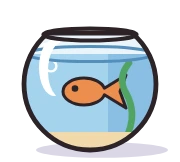
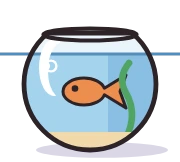
Wonder Shelf: flat clouds, Doraemon-anime blue, lighter sky, no top-cell shade band, flat rounded tags, rocket and goldfish bowl sway on page turns

Changed region(s): [[0.25, 0.2778, 1.0, 0.4321], [0.0, 0.2778, 0.25, 0.3704]]

diff --git a/index.html b/index.html
@@ -1049,9 +1049,9 @@ body.portrait:not(.compact) .topbar .lbl{display:none}
 :root[data-theme=sumi] .wall.zoomed .shelf.z::after{background:linear-gradient(180deg,rgba(0,0,0,.10) 0,rgba(0,0,0,.20) 50%,rgba(0,0,0,.30));mix-blend-mode:normal}
 .prop.sprop{position:absolute;bottom:-3px;pointer-events:none}.prop.sprop img{display:block}
 /* ================= Wonder Shelf (TOON_THEME_SPEC): 2D cel animation - rounded type, navy-sky glass, sunflower accent, ink key lines ================= */
-:root[data-theme=toon]{--surround:#3763A0;--text:#FFFFFF;--muted:#DEE7F6;--faint:#B6C6E2;--gilt:#F7D259;--gilt-deep:#D79C44;--line:rgba(255,210,63,.38);--glass:rgba(32,60,118,.84);--glass-hi:rgba(48,84,152,.92);--ink:#2E2328;--ink-muted:#685F63;--ink-red:#D25643;--ink-line:rgba(46,35,40,.28);
+:root[data-theme=toon]{--surround:#176E97;--text:#FFFFFF;--muted:#DEE7F6;--faint:#B6C6E2;--gilt:#F7D259;--gilt-deep:#D79C44;--line:rgba(255,210,63,.38);--glass:rgba(32,60,118,.84);--glass-hi:rgba(48,84,152,.92);--ink:#2E2328;--ink-muted:#685F63;--ink-red:#D25643;--ink-line:rgba(46,35,40,.28);
   --f-ui:"Hiragino Maru Gothic ProN","Arial Rounded MT Bold","LibZH","PingFang TC",sans-serif;--f-book:"Hiragino Maru Gothic ProN","LibZH","PingFang TC",sans-serif;--f-display:"Arial Rounded MT Bold","Hiragino Maru Gothic ProN","LibZH","PingFang TC",sans-serif;--f-zhserif:"Hiragino Maru Gothic ProN","PingFang TC",sans-serif}
-:root[data-theme=toon] .stage{background:#3763A0}
+:root[data-theme=toon] .stage{background:#176E97}
 :root[data-theme=toon] .topbar{background:none}
 :root[data-theme=toon] .bottombar{background:linear-gradient(0deg,rgba(47,100,174,.55),rgba(47,100,174,0))}
 :root[data-theme=toon] .primary{border:2px solid #2E2328;border-image:none;border-radius:22px;background:#F7D259;color:#2E2328;box-shadow:none;text-shadow:none;font-family:"Arial Rounded MT Bold","Hiragino Maru Gothic ProN",sans-serif;font-weight:400}
@@ -1061,7 +1061,7 @@ body.portrait:not(.compact) .topbar .lbl{display:none}
 :root[data-theme=toon] .divider{background:linear-gradient(90deg,#FCF1BB,#F7D259 45%,#D9A73E);box-shadow:0 0 0 1.2px #2E2328;border-radius:3px}
 :root[data-theme=toon] .spine.lift::after,:root[data-theme=toon] .spine.found::after{background:linear-gradient(180deg,transparent 35%,rgba(255,255,255,.6) 50%,transparent 65%)}
 :root[data-theme=toon] .spine .fav{background:#F7D259;box-shadow:0 0 0 1.2px #2E2328}
-:root[data-theme=toon] .ribbon[data-tab=review]{background-color:#D25643!important}:root[data-theme=toon] .ribbon[data-tab=synopsis]{background-color:#4A8DCF!important}:root[data-theme=toon] .ribbon[data-tab=quotes]{background-color:#50A465!important}:root[data-theme=toon] .ribbon[data-tab=notes]{background-color:#F7D259!important;color:#2E2328}
+:root[data-theme=toon] .ribbon[data-tab=review]{background-color:#D25643!important}:root[data-theme=toon] .ribbon[data-tab=synopsis]{background-color:#1A96C3!important}:root[data-theme=toon] .ribbon[data-tab=quotes]{background-color:#50A465!important}:root[data-theme=toon] .ribbon[data-tab=notes]{background-color:#F7D259!important;color:#2E2328}
 :root[data-theme=toon] .sealdot{background:radial-gradient(circle at 40% 35%,#EE8E81,#D25643 60%,#A53A31)}
 :root[data-theme=toon] ::selection{background:rgba(255,210,63,.45)}
 :root[data-theme=toon] .page textarea,:root[data-theme=toon] .pb textarea,:root[data-theme=toon] .writer{caret-color:#D25643}
@@ -1073,7 +1073,7 @@ body.portrait:not(.compact) .topbar .lbl{display:none}
 :root[data-theme=toon] .prop.bookend{background:#F7D259;box-shadow:0 0 0 1.5px #2E2328;border-radius:3px}
 :root[data-theme=toon] .prop.bookend::after{background:#D79C44}
 /* books: flat cel colours with an ink key line (in the atlas); a hard cel shadow under every shelf; rounded lettering */
-:root[data-theme=toon] .shelf::after{background:url(themes/toon/shade.webp) no-repeat;background-size:1180px 820px;background-position:var(--sx) var(--sy);mix-blend-mode:multiply;opacity:1}
+:root[data-theme=toon] .shelf::after{display:none}
 :root[data-theme=toon] .spine{box-shadow:none;filter:none!important}
 :root[data-theme=toon] .spine .t.v.eb,:root[data-theme=toon] .spine .t.v.cg{font-family:"Arial Rounded MT Bold","Hiragino Maru Gothic ProN",sans-serif;font-weight:400}
 :root[data-theme=toon] .spine .t.v{transform:scaleY(.86)}
@@ -1087,10 +1087,10 @@ body.portrait:not(.compact) .topbar .lbl{display:none}
 :root[data-theme=toon] .spine .lent{background-color:#FFFFFF}
 :root[data-theme=toon] .spine .sno{color:#FFFFFF;text-shadow:1px 0 0 #2E2328,-1px 0 0 #2E2328,0 1px 0 #2E2328,0 -1px 0 #2E2328,.7px .7px 0 #2E2328,-.7px .7px 0 #2E2328,.7px -.7px 0 #2E2328,-.7px -.7px 0 #2E2328}
 :root[data-theme=toon] .wall.zoomed .shelf.z::after{background:linear-gradient(180deg,rgba(80,70,150,.18) 0,rgba(80,70,150,.18) 8%,transparent 8.5%);mix-blend-mode:multiply}
-:root[data-theme=toon] .wordmark,:root[data-theme=toon] .pager .where,:root[data-theme=toon] .bayname{background:#4A8DCF;border-radius:16px;padding:5px 14px 7px;box-shadow:0 0 0 2px #2E2328,0 3px 0 #2E2328}
+:root[data-theme=toon] .wordmark,:root[data-theme=toon] .pager .where,:root[data-theme=toon] .bayname{background:#1A96C3;border-radius:16px;padding:5px 14px 7px;box-shadow:0 0 0 2px #2E2328,0 3px 0 #2E2328}
 :root[data-theme=toon] .wordmark b{text-shadow:1px 0 0 #2E2328,-1px 0 0 #2E2328,0 1px 0 #2E2328,0 -1px 0 #2E2328,.7px .7px 0 #2E2328,-.7px .7px 0 #2E2328,.7px -.7px 0 #2E2328,-.7px -.7px 0 #2E2328}
 :root[data-theme=toon] .wordmark span,:root[data-theme=toon] .pager .where,:root[data-theme=toon] .pager .where small,:root[data-theme=toon] .bayname,:root[data-theme=toon] .syncbtn{color:#FFFFFF;text-shadow:0 1px 0 rgba(46,35,40,.45)}
-:root[data-theme=toon] .search,:root[data-theme=toon] .icon-btn{background:#4A8DCF;border:2px solid #2E2328;box-shadow:none;color:#FFFFFF}
+:root[data-theme=toon] .search,:root[data-theme=toon] .icon-btn{background:#1A96C3;border:2px solid #2E2328;box-shadow:none;color:#FFFFFF}
 :root[data-theme=toon] .icon-btn,:root[data-theme=toon] .icon-btn .lbl,:root[data-theme=toon] .search input{font-family:"Arial Rounded MT Bold","Hiragino Maru Gothic ProN",sans-serif;font-weight:400}
 :root[data-theme=toon] .topbar .icon-btn,:root[data-theme=toon] .topbar .primary,:root[data-theme=toon] .search input{font-size:16px}
 :root[data-theme=toon] body:not(.compact):not(.portrait) .topbar .search{width:340px}
@@ -1103,6 +1103,20 @@ body.portrait:not(.compact) .topbar .lbl{display:none}
 .prop.tprop{position:absolute;bottom:-2px;pointer-events:none}.prop.tprop img{display:block}
 :root[data-theme=toon] .cardcount{color:#FFFFFF;text-shadow:0 1px 0 rgba(46,35,40,.55)}
 :root[data-theme=toon] .spine .sno{font-family:"Arial Rounded MT Bold",sans-serif}
+/* tags: flat cel colours, rounded lettering, no silk gradient */
+:root[data-theme=toon] .ribbon{background-image:none!important;font-family:"Arial Rounded MT Bold","Hiragino Maru Gothic ProN",sans-serif!important;font-weight:400;text-shadow:none!important;color:#FFFFFF;letter-spacing:.02em}
+:root[data-theme=toon] .ribbon[data-tab=synopsis]{background-color:#1A96C3!important}
+/* the toy rocket rocks, the goldfish bowl wobbles and its water sloshes (maybeSway in 32_atmos.js) */
+.tprop .bw{position:relative;display:block;width:60px;height:54px}.tprop .bw>img,.tprop .water{position:absolute;left:0;top:0}
+.tprop .water{width:60px;height:54px;clip-path:circle(21px at 30px 28px)}.tprop .water img{display:block;transform-origin:30px 30px}
+.tprop.rocketprop img,.tprop .bw{transform-origin:50% 100%}
+.tprop.rocketprop.sway img{animation:tRock 1.4s cubic-bezier(.3,.6,.4,1) .12s both}
+.tprop.bowlprop.sway .bw{animation:tWob 1.2s cubic-bezier(.3,.6,.4,1) .12s both}
+.tprop.bowlprop.sway .water img{animation:tSlosh 1.8s cubic-bezier(.3,.6,.4,1) .18s both}
+@keyframes tRock{0%{transform:none}14%{transform:rotate(-6deg)}32%{transform:rotate(4.5deg)}50%{transform:rotate(-2.6deg)}68%{transform:rotate(1.4deg)}84%{transform:rotate(-.5deg)}100%{transform:none}}
+@keyframes tWob{0%{transform:none}16%{transform:rotate(3deg)}36%{transform:rotate(-2deg)}56%{transform:rotate(1deg)}76%{transform:rotate(-.4deg)}100%{transform:none}}
+@keyframes tSlosh{0%{transform:none}14%{transform:rotate(-11deg) translateX(1px)}30%{transform:rotate(8deg) translateX(-1px)}46%{transform:rotate(-5deg)}62%{transform:rotate(3deg)}78%{transform:rotate(-1.2deg)}100%{transform:none}}
+@media (prefers-reduced-motion:reduce){.tprop.sway img,.tprop.sway .bw,.tprop.sway .water img{animation:none!important}}
 
 </style>
 </head>
@@ -1922,6 +1936,7 @@ function renderWall() {
   chrome.innerHTML = wallChrome(L);
   hydrateCovers(stage);
   swapHires('wall');
+  if (!S.motion) maybeSway(); // a walk calls it once it lands
   applyZoom(false);
   renderResults();
   bindSearch();
@@ -2172,8 +2187,9 @@ function propHTML(sh, x, shelfH) {
     if (P) return `<span class="prop iprop" style="left:${left}px"><img src="${T('prop_' + P[0] + '.webp')}" width="${P[1]}" height="${P[2]}" alt="" decoding="async"></span>`;
   }
   if (themeId() === 'toon') { // drawn in 2D (draw_toon.py): a toy rocket, a crayon drawing in a frame, a goldfish bowl
-    const P = { hourglass: ['rocket', 52, 112], letter: ['frame', 50, 58], candle: ['bowl', 60, 54] }[k];
-    if (P) return `<span class="prop tprop" style="left:${left}px"><img src="${T('prop_' + P[0] + '.webp')}" width="${P[1]}" height="${P[2]}" alt="" decoding="async"></span>`;
+    if (k === 'candle') return `<span class="prop tprop bowlprop" style="left:${left}px"><span class="bw"><img src="${T('prop_bowl_back.webp')}" width="60" height="54" alt="" decoding="async"><span class="water"><img src="${T('prop_bowl_water.webp')}" width="60" height="54" alt="" decoding="async"></span><img src="${T('prop_bowl_front.webp')}" width="60" height="54" alt="" decoding="async"></span></span>`;
+    const P = { hourglass: ['rocket', 52, 112], letter: ['frame', 50, 58] }[k];
+    if (P) return `<span class="prop tprop ${P[0]}prop" style="left:${left}px"><img src="${T('prop_' + P[0] + '.webp')}" width="${P[1]}" height="${P[2]}" alt="" decoding="async"></span>`;
   }
   if (themeId() === 'sumi') { // rendered at dusk (scene_props_ivory.py with LIB_THEME=sumi)
     const P = { hourglass: ['vase', 69, 147], letter: ['frame', 56, 65], candle: ['bowl', 61, 30] }[k];
@@ -2323,6 +2339,16 @@ function sound(kind) {
     else if (kind === 'card') noise(0.08, 3000, 1800, 0.04);
     else if (kind === 'book') { noise(0.22, 900, 400, 0.05); thump(140, 0.1, 0.04); }
   } catch (e) { /* no audio */ }
+}
+
+/* Wonder Shelf: when the room turns to another bookcase, the toy rocket rocks and the goldfish bowl wobbles, its water sloshing.
+   One CSS animation on the compositor, restarted only when the page or bay actually changes. */
+let swayKey = null;
+function maybeSway() {
+  if (themeId() !== 'toon') return;
+  const k = S.page + ':' + S.bay; if (k === swayKey) return;
+  const first = swayKey === null; swayKey = k; if (first) return;
+  requestAnimationFrame(() => document.querySelectorAll('#wall .tprop.rocketprop, #wall .tprop.bowlprop').forEach((el) => { el.classList.remove('sway'); void el.offsetWidth; el.classList.add('sway'); }));
 }
 
 /* ================= the open book ================= */
@@ -3662,6 +3688,7 @@ async function walk(dir, newPage, newBay) {
   await a.finished.catch(() => {});
   old.remove(); a.cancel(); nw.style.transform = '';
   if (bay) { S.bay = newBay; fit(false); chrome.innerHTML = wallChrome(layout()); renderResults(); bindSearch(); renderSync(); }
+  maybeSway();
   void keepBay;
   S.motion = false;
 }
@@ -3796,7 +3823,7 @@ function zoomStep(dir, vertical) {
   if (np !== S.page) { S.page = np; S.bay = nb; S.zoom = z; render(); booksIn(dir); requestAnimationFrame(() => applyZoom(true)); return; }
   const panBay = S.bayMode && nb !== S.bay; S.bay = nb; S.zoom = z;
   if (panBay) fit(true);
-  applyZoom(true); chrome.innerHTML = wallChrome(L); renderResults(); bindSearch(); renderSync();
+  applyZoom(true); chrome.innerHTML = wallChrome(L); renderResults(); bindSearch(); renderSync(); maybeSway();
 }
 function bump(dir) { anim(document.getElementById('wall'), [{ translate: '0 0' }, { translate: `${-dir * 14}px 0` }, { translate: '0 0' }], { duration: 340, easing: 'ease-out' }); }
 

diff --git a/sw.js b/sw.js
@@ -1,7 +1,7 @@
 /* The Library — service worker.
  * Bump VERSION on every deploy that changes any precached file, so clients pick up the new shell.
  */
-const VERSION = 'lib-v59';
+const VERSION = 'lib-v60';
 
 const SHELL_CACHE = 'shell-' + VERSION;
 const COVERS_CACHE = 'covers';          // shared across versions, capped below
